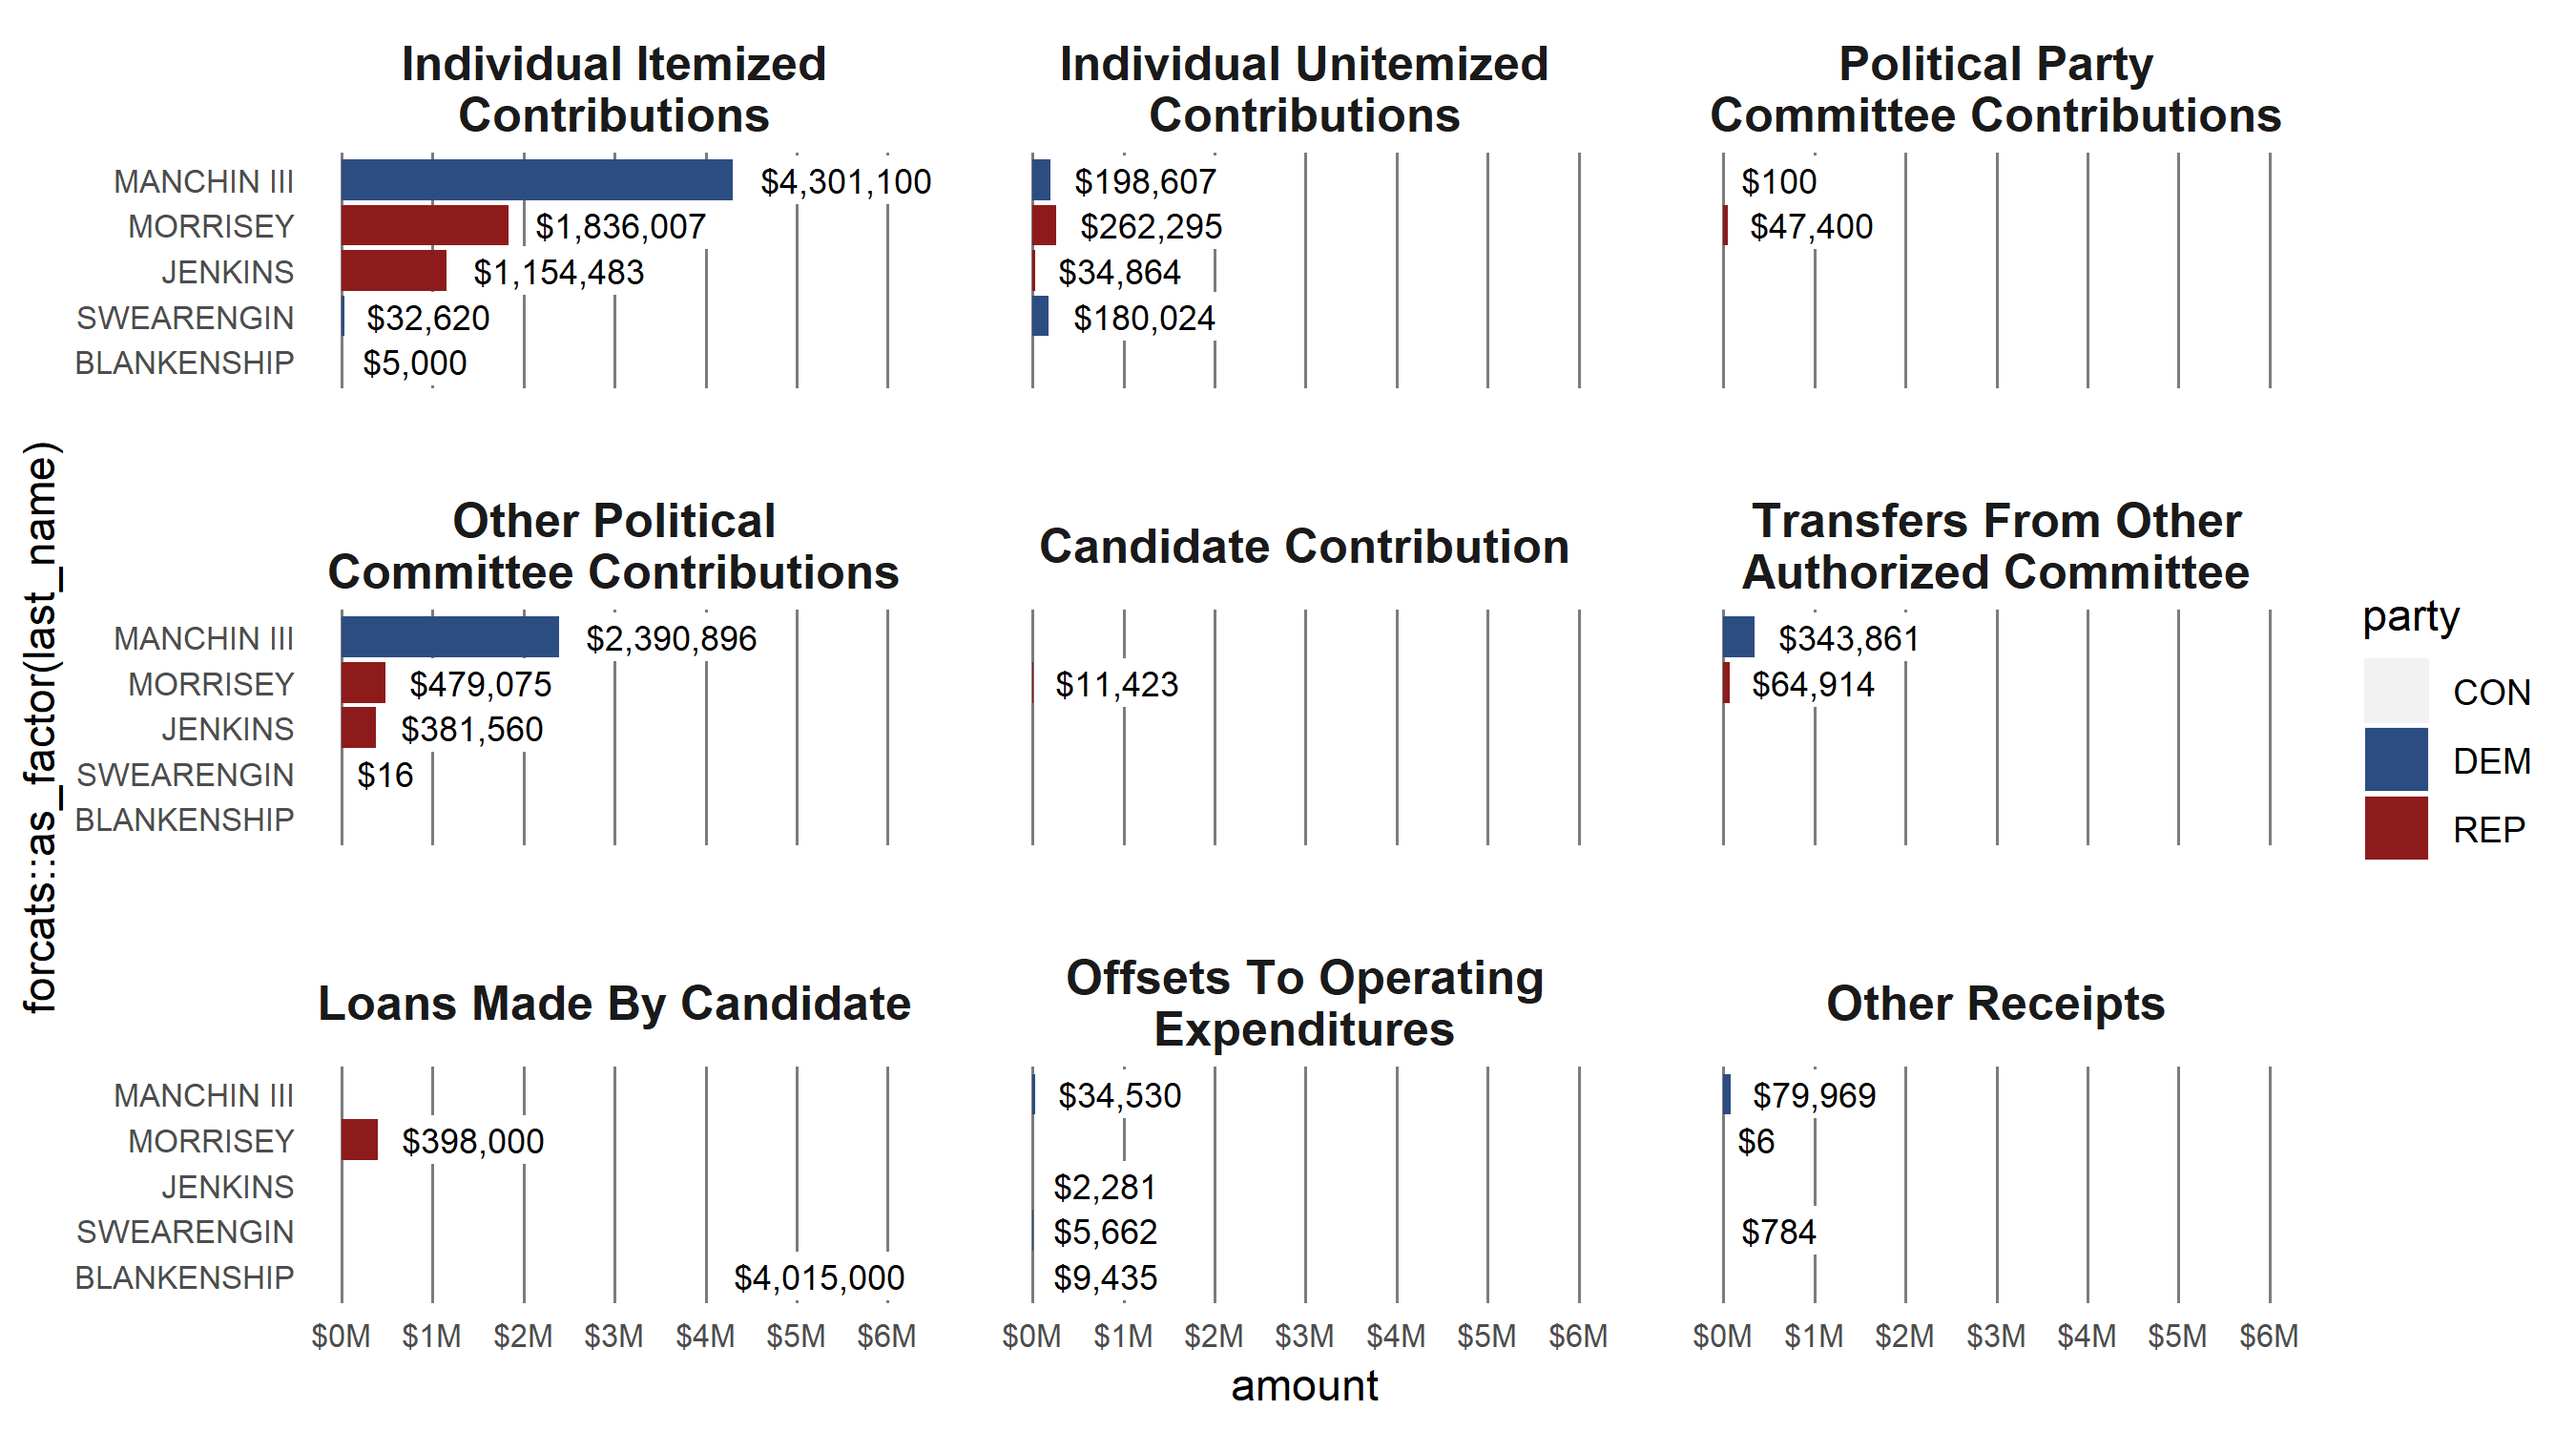
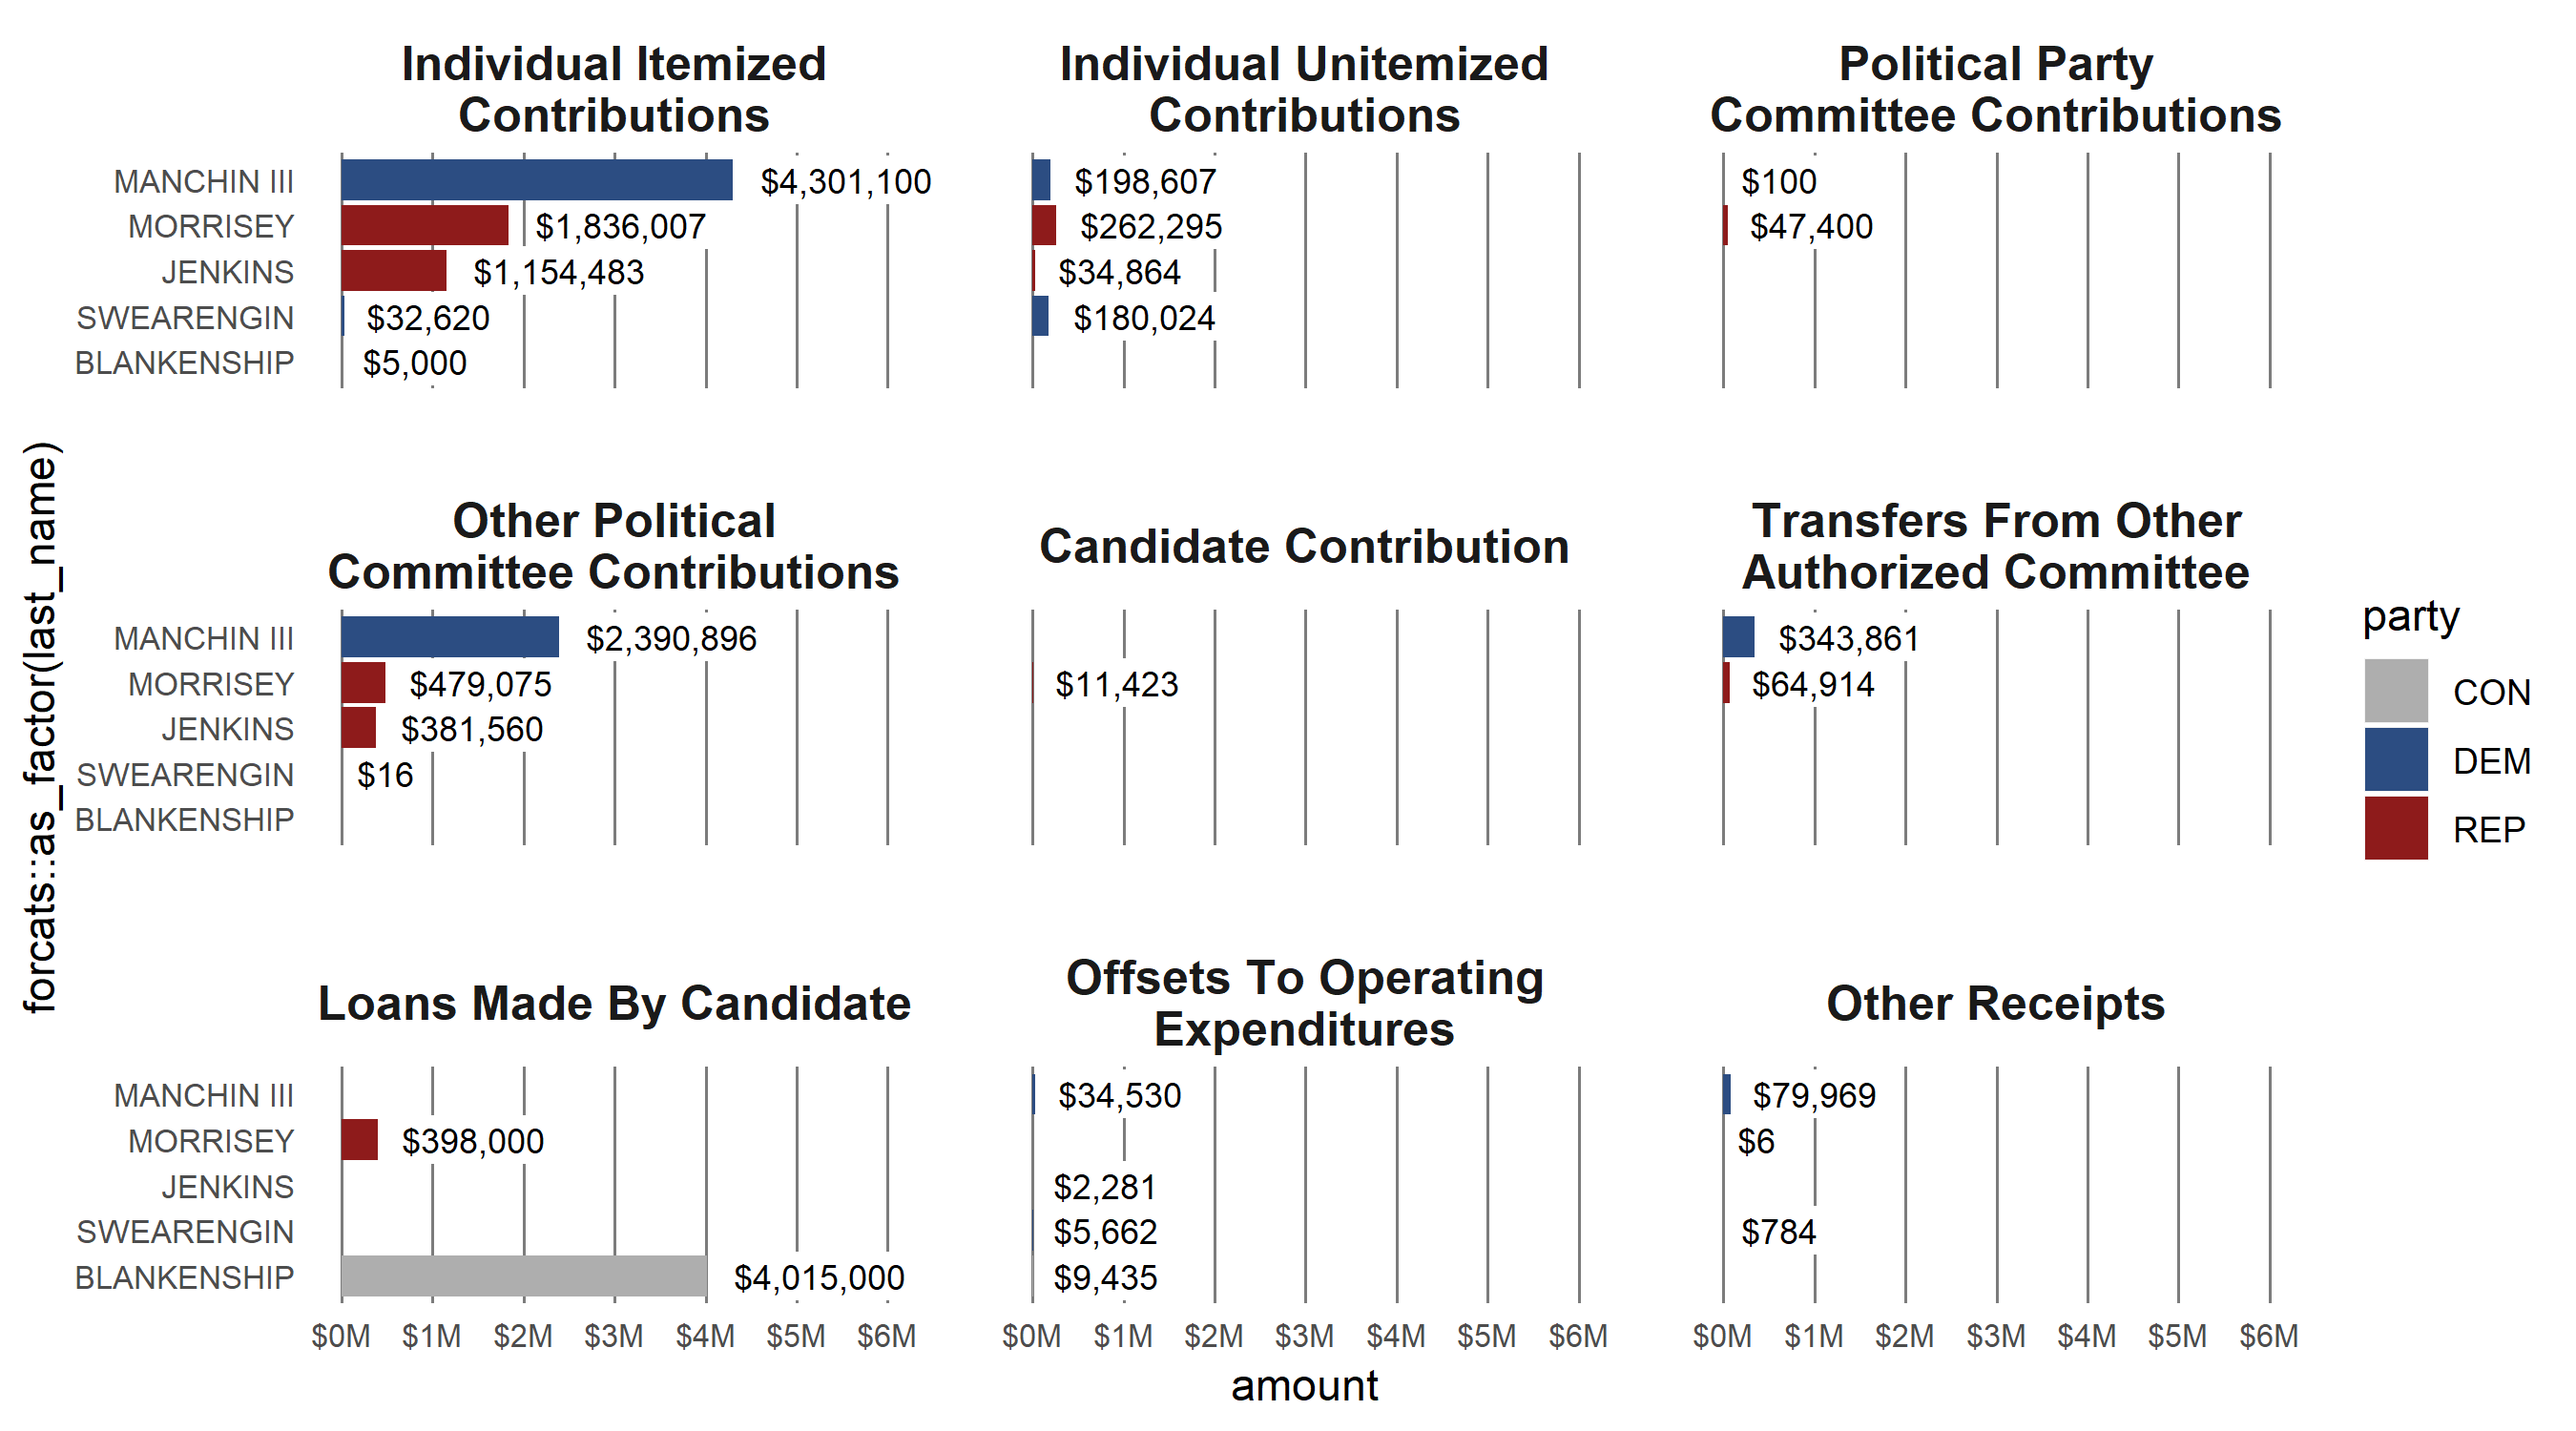
Fix CON party fill

Changed region(s): [[0.1244, 0.8587, 0.28, 0.92], [0.9022, 0.46, 0.9644, 0.5213]]

diff --git a/README.md b/README.md
@@ -55,8 +55,8 @@ wv_senate_search %>% filter(type_of_funds %in% tidyusafec_filters$candidate_tota
   geom_bar(aes(x = forcats::as_factor(last_name), y = amount, fill = party), stat = "identity") +
   geom_label(aes(x = forcats::as_factor(last_name), y = amount, label = scales::dollar(amount)), hjust = -0.1, label.size = 0, label.padding = unit(0.2,"line"), size = 3) +
   facet_wrap(~factor(type_of_funds,levels = str_replace_all(tidyusafec_filters$candidate_totals$type_of_funds$receipts_smallest_components,"_"," ") %>% str_to_title), labeller = label_wrap_gen()) +
-  scale_y_continuous(labels = paste0("$",seq(0,4),"M"), breaks = seq(0,4000000,by=1000000), limits = c(0,4000000)) +
-  scale_fill_manual(values = c("DEM" = "#2c4d82", "REP" = "#8e1b1b", "IND" = "#a3a3a3", "GRE" = "#1c561d", "LIB" = "#afac3d")) +
+  scale_y_continuous(labels = paste0("$",seq(0,6),"M"), breaks = seq(0,6000000,by=1000000), limits = c(0,6000000)) +
+  scale_fill_manual(values = c("DEM" = "#2c4d82", "REP" = "#8e1b1b", "IND" = "#a3a3a3", "GRE" = "#1c561d", "LIB" = "#afac3d", "CON" = "#AEAEAE")) +
   coord_flip(clip = "off") + 
   theme(
     panel.background = element_blank(),
